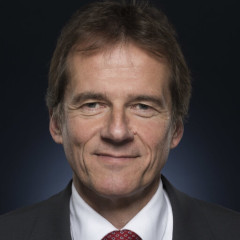
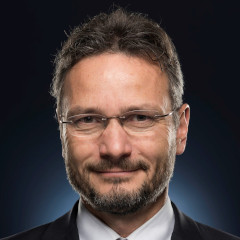
New news and photos

diff --git a/index.html b/index.html
@@ -251,8 +251,11 @@
                                 Alpine.data('carousel', () => ({
                                     active: 0,
                                     autorotate: true,
-                                    autorotateTiming: 5000,
+                                    autorotateTiming: 2500,
                                     items: [
+                                        {
+                                            img: '2024-04-18-inner-5.jpg',
+                                        },
                                         {
                                             img: '2022-30-11-inner-1.jpg',
                                         },
@@ -263,10 +266,19 @@
                                             img: '2022-30-11-inner-3.jpg',
                                         },
                                         {
-                                            img: '2022-30-11-inner-4.jpg',
+                                            img: '2024-04-18-inner-1.jpg',
                                         },
                                         {
-                                            img: '2022-30-11-inner-5.jpg',
+                                            img: '2024-04-18-inner-2.jpg',
+                                        },
+                                        {
+                                            img: '2024-04-18-inner-3.jpg',
+                                        },
+                                        {
+                                            img: '2024-04-18-inner-4.jpg',
+                                        },
+                                        {
+                                            img: '2024-04-18-inner-6.jpg',
                                         },
 
                                     ],
@@ -1084,6 +1096,93 @@
                 <div class="carousel swiper-container">
                     <div class="swiper-wrapper">
                         <!-- Carousel items -->
+
+                        <!-- article -->
+                        <div class="swiper-slide h-auto flex flex-col max-w-[446px] group">
+                            <article class="flex flex-col h-full" data-aos="fade-up" data-aos-delay="200">
+                                <header>
+                                    <a class="block mb-6" href="./news/2024-04-11.html">
+                                        <figure class="relative h-0 pb-9/16 overflow-hidden rounded-sm">
+                                            <img class="absolute inset-0 w-full h-full object-cover transform hover:scale-105 transition duration-700 ease-out"
+                                                loading="lazy" src="./images/2024-04-11-preview.jpg" width="352"
+                                                height="198" alt="News 02" />
+                                        </figure>
+                                    </a>
+                                    <div class="mb-3">
+                                        <ul class="flex flex-wrap text-xs font-medium -m-1">
+                                            <li class="m-1">
+                                                <a class="inline-flex text-center text-gray-100 py-1 px-3 rounded-full bg-kitcyan-800 hover:bg-kitcyan-950 transition duration-150 ease-in-out"
+                                                    href="#0">Think Tank</a>
+                                            </li>
+                                        </ul>
+                                    </div>
+                                    <h3 class="h4 mb-2">
+                                        <a class="hover:text-gray-100 transition duration-150 ease-in-out"
+                                            href="./news/2024-04-11.html">Fireside Chat with Dr. Ulf Zillig</a>
+                                    </h3>
+                                </header>
+                                <p class="text-lg text-gray-400 grow">Dr. Ulf Zillig is the Vice President Group
+                                    Research for Sustainability at
+                                    Mercedes-Benz AG.</p>
+                                <footer class="flex items-center mt-4">
+                                    <a href="https://www.fast.kit.edu/lff/Team_10658.php" target="_blank"
+                                        rel="noopener noreferrer">
+                                        <img class="rounded-full shrink-0 mr-4" src="./images/news-author-01.jpg"
+                                            width="40" height="40" alt="Author 01" />
+                                    </a>
+                                    <div class="font-medium">
+                                        <a class="text-gray-200 hover:text-gray-100 transition duration-150 ease-in-out"
+                                            href="https://www.fast.kit.edu/lff/Team_10658.php" target="_blank"
+                                            rel="noopener noreferrer">Matthias Vollat</a>
+                                        <span class="text-gray-700"> - </span>
+                                        <span class="text-gray-500">Apr 11, 2024</span>
+                                    </div>
+                                </footer>
+                            </article>
+                        </div>
+
+                        <!-- article -->
+                        <div class="swiper-slide h-auto flex flex-col max-w-[446px] group">
+                            <article class="flex flex-col h-full" data-aos="fade-up">
+                                <header>
+                                    <a class="block mb-6" href="./news/2024-04-01.html">
+                                        <figure class="relative h-0 pb-9/16 overflow-hidden rounded-sm">
+                                            <img class="absolute inset-0 w-full h-full object-cover transform hover:scale-105 transition duration-700 ease-out"
+                                                loading="lazy" src="./images/2024-04-01-preview.jpg" width="352"
+                                                height="198" alt="News 01" />
+                                        </figure>
+                                    </a>
+                                    <div class="mb-3">
+                                        <ul class="flex flex-wrap text-xs font-medium -m-1">
+                                            <li class="m-1">
+                                                <a class="inline-flex text-center text-gray-100 py-1 px-3 rounded-full bg-gray-800 hover:bg-gray-700 transition duration-150 ease-in-out"
+                                                    href="#0">Team</a>
+                                            </li>
+                                        </ul>
+                                    </div>
+                                    <h3 class="h4 mb-2">
+                                        <a class="hover:text-gray-100 transition duration-150 ease-in-out"
+                                            href="./news/2024-04-01.html">New Scientific Speaker</a>
+                                    </h3>
+                                </header>
+                                <p class="text-lg text-gray-400 grow">Eric Sax becomes the successor of Frank Gauterin.
+                                </p>
+                                <footer class="flex items-center mt-4">
+                                    <a href="https://www.fast.kit.edu/lff/Team_10658.php" target="_blank"
+                                        rel="noopener noreferrer">
+                                        <img class="rounded-full shrink-0 mr-4" src="./images/news-author-01.jpg"
+                                            width="40" height="40" alt="Author 01" />
+                                    </a>
+                                    <div class="font-medium">
+                                        <a class="text-gray-200 hover:text-gray-100 transition duration-150 ease-in-out"
+                                            href="https://www.fast.kit.edu/lff/Team_10658.php" target="_blank"
+                                            rel="noopener noreferrer">Matthias Vollat</a>
+                                        <span class="text-gray-700"> - </span>
+                                        <span class="text-gray-500">Apr 01, 2024</span>
+                                    </div>
+                                </footer>
+                            </article>
+                        </div>
 
                         <!-- article -->
                         <div class="swiper-slide h-auto flex flex-col max-w-[446px] group">

diff --git a/news/2024-04-01.html b/news/2024-04-01.html
@@ -163,12 +163,10 @@
                                 <header class="mb-8">
                                     <!-- Title and excerpt -->
                                     <div class="text-center md:text-left">
-                                        <h1 class="h1 mb-4" data-aos="fade-up">First Think Tank Meeting
+                                        <h1 class="h1 mb-4" data-aos="fade-up">New Scientific Speaker
                                         </h1>
-                                        <p class="text-xl text-gray-400" data-aos="fade-up" data-aos-delay="200">Today,
-                                            the first think tank meeting
-                                            was held. The members met in a relaxed
-                                            atmosphere and discussed various possible research topics.</p>
+                                        <p class="text-xl text-gray-400" data-aos="fade-up" data-aos-delay="200">
+                                            Eric Sax becomes the successor of Frank Gauterin.</p>
                                     </div>
                                     <!-- Article meta -->
                                     <div class="md:flex md:items-center md:justify-between mt-3">
@@ -185,7 +183,7 @@
                                                     href="https://www.fast.kit.edu/lff/Team_10658.php" target="_blank"
                                                     rel="noopener noreferrer">Matthias Vollat</a>
                                                 <span class="text-gray-700"> - </span>
-                                                <span class="text-gray-500">Nov 30, 2020</span>
+                                                <span class="text-gray-500">Apr 01, 2024</span>
                                             </div>
                                         </div>
                                         <!-- Article tags -->
@@ -193,8 +191,8 @@
                                             data-aos-delay="600">
                                             <ul class="flex flex-wrap text-xs font-medium -m-1">
                                                 <li class="m-1">
-                                                    <a class="inline-flex text-center text-gray-100 py-1 px-3 rounded-full bg-kitcyan-800 hover:bg-kitcyan-950 transition duration-150 ease-in-out"
-                                                        href="#0">Think Tank</a>
+                                                    <a class="inline-flex text-center text-gray-100 py-1 px-3 rounded-full bg-gray-800 hover:bg-gray-700 transition duration-150 ease-in-out"
+                                                        href="#0">Team</a>
                                                 </li>
                                             </ul>
                                         </div>
@@ -203,22 +201,22 @@
 
                                 <!-- Article image -->
                                 <figure class="mb-8 lg:-ml-32 lg:-mr-32" data-aos="fade-up" data-aos-delay="600">
-                                    <img class="w-full" src="../images/news-02.jpg" width="1024" height="576"
+                                    <img class="w-full" src="../images/2024-04-01-header.jpg" width="1024" height="576"
                                         alt="News single" />
                                 </figure>
 
                                 <!-- Article content -->
                                 <div class="text-lg text-gray-400">
-                                    <p class="mb-8">
-                                        The main topic of the meeting was data-driven mobility. First, various forms of
-                                        data-driven mobility were explained and, on this basis, various further ideas
-                                        from the different domains of mobility were collected. After a subsequent
-                                        evaluation, individual ideas were further developed, up to the first steps that
-                                        a possible research project would have to complete. We would like to thank
-                                        everyone for their active participation and look forward to the next meeting.
-                                    </p>
 
+                                    <p class="mb-8">
+                                        On April 01, our scientific spokesperson Prof. Dr. rer. nat. Frank Gauterin
+                                        begins his well-deserved retirement. The entire school would like to thank him
+                                        for his commitment and the time he has invested as the face of the school in its
+                                        further development. Prof. Dr.-Ing. Eric Sax will succeed Mr. Gauterin and
+                                        represent the school both internally and externally in the future.
+                                    </p>
                                 </div>
+
 
                                 <!-- Article footer -->
                                 <footer>

diff --git a/news/2024-04-11.html b/news/2024-04-11.html
@@ -163,12 +163,11 @@
                                 <header class="mb-8">
                                     <!-- Title and excerpt -->
                                     <div class="text-center md:text-left">
-                                        <h1 class="h1 mb-4" data-aos="fade-up">First Think Tank Meeting
+                                        <h1 class="h1 mb-4" data-aos="fade-up">Fireside Chat with Dr. Ulf Zillig
                                         </h1>
-                                        <p class="text-xl text-gray-400" data-aos="fade-up" data-aos-delay="200">Today,
-                                            the first think tank meeting
-                                            was held. The members met in a relaxed
-                                            atmosphere and discussed various possible research topics.</p>
+                                        <p class="text-xl text-gray-400" data-aos="fade-up" data-aos-delay="200">
+                                            Dr. Ulf Zillig is the Vice President Group Research for Sustainability at
+                                            Mercedes-Benz AG.</p>
                                     </div>
                                     <!-- Article meta -->
                                     <div class="md:flex md:items-center md:justify-between mt-3">
@@ -185,7 +184,7 @@
                                                     href="https://www.fast.kit.edu/lff/Team_10658.php" target="_blank"
                                                     rel="noopener noreferrer">Matthias Vollat</a>
                                                 <span class="text-gray-700"> - </span>
-                                                <span class="text-gray-500">Nov 30, 2020</span>
+                                                <span class="text-gray-500">Apr 11, 2024</span>
                                             </div>
                                         </div>
                                         <!-- Article tags -->
@@ -203,22 +202,28 @@
 
                                 <!-- Article image -->
                                 <figure class="mb-8 lg:-ml-32 lg:-mr-32" data-aos="fade-up" data-aos-delay="600">
-                                    <img class="w-full" src="../images/news-02.jpg" width="1024" height="576"
+                                    <img class="w-full" src="../images/2024-04-11-header.jpg" width="1024" height="576"
                                         alt="News single" />
                                 </figure>
 
                                 <!-- Article content -->
                                 <div class="text-lg text-gray-400">
-                                    <p class="mb-8">
-                                        The main topic of the meeting was data-driven mobility. First, various forms of
-                                        data-driven mobility were explained and, on this basis, various further ideas
-                                        from the different domains of mobility were collected. After a subsequent
-                                        evaluation, individual ideas were further developed, up to the first steps that
-                                        a possible research project would have to complete. We would like to thank
-                                        everyone for their active participation and look forward to the next meeting.
-                                    </p>
 
+                                    <p class="mb-8">
+                                        On Thursday, 11.04.24, our members had the opportunity to talk to one of the top
+                                        managers from Baden-Württemberg in a relaxed atmosphere. We are delighted to
+                                        report that Dr. Ulf Zillig, Vice President Group Research for Sustainability at
+                                        Mercedes-Benz AG, has agreed to visit us for a fireside evening. After a short
+                                        round of introductions and a keynote speech by Mr. Zillig on the topic of
+                                        sustainability from the perspective of Mercedes-Benz AG, the evening turned into
+                                        a lively discussion led by Prof. Eric Sax. In addition to the topics that
+                                        currently occupy him, Mr. Zillig also reported on his career and how he came to
+                                        the position he now holds in the company.
+                                        We would like to thank Mr. Zillig very much for the time he spent with us and
+                                        look forward to further exchanges in the future.
+                                    </p>
                                 </div>
+
 
                                 <!-- Article footer -->
                                 <footer>

diff --git a/members.html b/members.html
@@ -186,11 +186,11 @@
                                 <div class="flex flex-col items-center">
                                     <img class="rounded-full mb-4" src="./images/team-member-01.jpg" width="120"
                                         height="120" alt="Team member 01" />
-                                    <h4 class="text-xl font-medium mb-1">Prof. Dr. Frank Gauterin</h4>
+                                    <h4 class="text-xl font-medium mb-1">Prof. Dr. Eric Sax</h4>
                                     <div class="text-gray-500 mb-1">Scientific Speaker</div>
                                     <a class="block text-kitgreen-600 hover:text-gray-200 transition duration-150 ease-in-out"
-                                        href="https://www.fast.kit.edu/lff/2995_1105.php" target="_blank"
-                                        rel="noopener noreferrer">fast.kit</a>
+                                        href="https://www.itiv.kit.edu/21_3940.php" target="_blank"
+                                        rel="noopener noreferrer">itiv.kit</a>
                                 </div>
                             </div>
 
